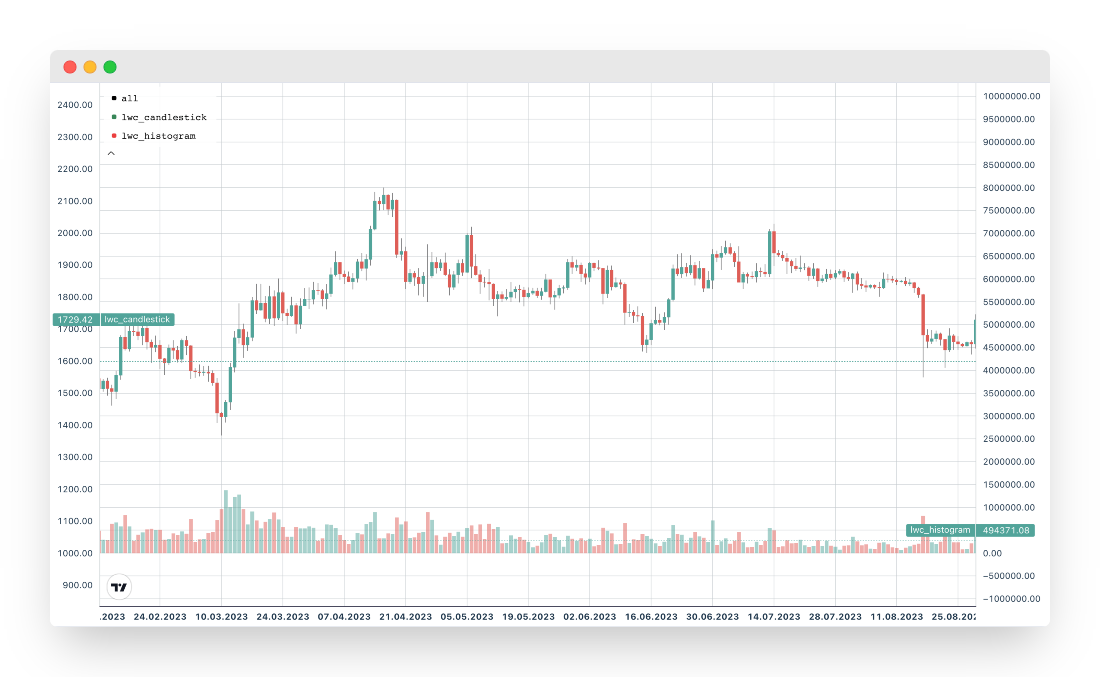
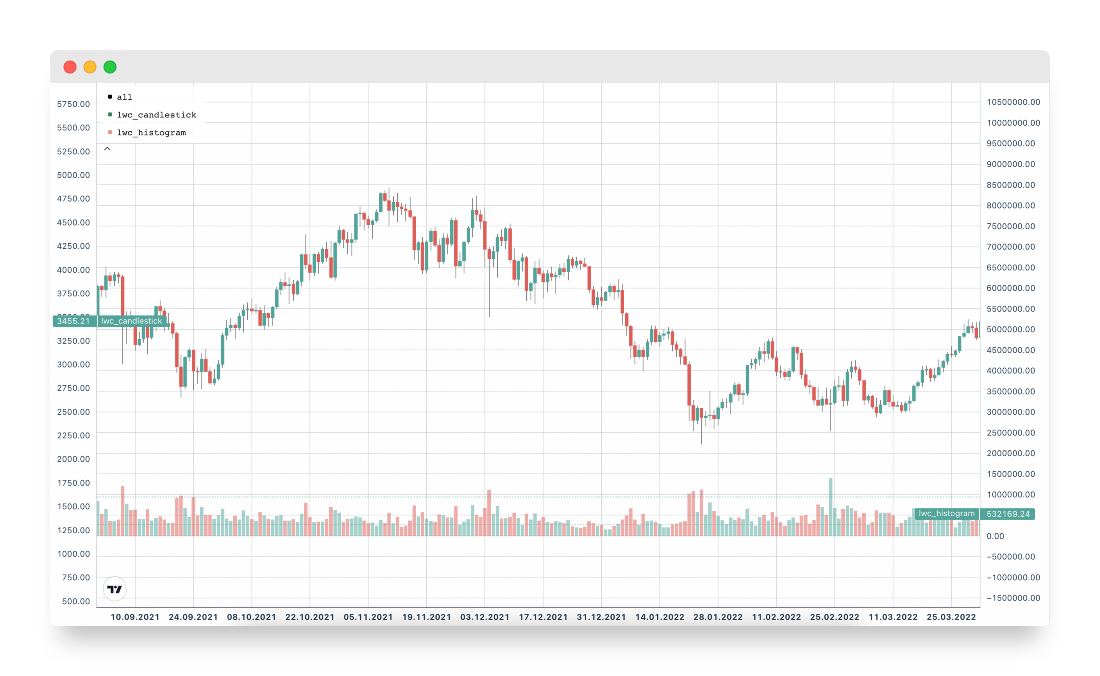
update index.md and panel.png

diff --git a/docs/src/index.md b/docs/src/index.md
@@ -84,6 +84,8 @@ panel = lwc_panel(
         price_scale_id = LWC_RIGHT,
     );
     name = "ETHUSDT | Binance Spot",
+    right_max_y = 8000000,
+    left_min_y = 1000,
 )
 
 lwc_show(panel)
